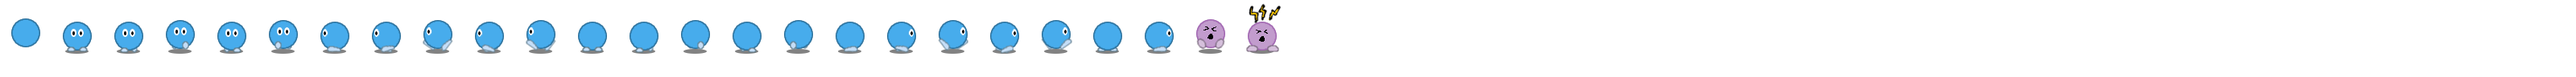
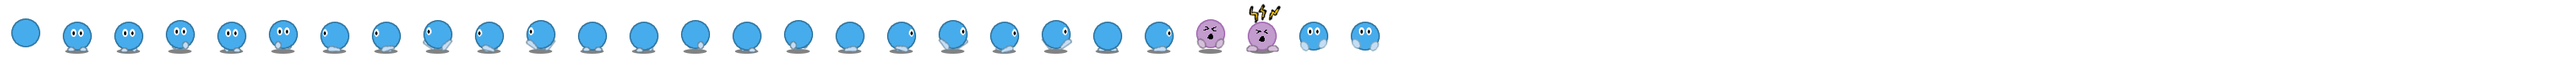
player fall animation
Former-commit-id: f1647d6c1efc2728b446d4d8494c1e8414e2f7ea

Changed region(s): [[0.5, 0.2812, 0.5625, 0.6562]]

diff --git a/src/states/Game.js b/src/states/Game.js
@@ -250,6 +250,7 @@ export default class extends Phaser.State {
     sprite.animations.add("walkRight", [17, 18, 19, 20], 4, true);
     sprite.animations.add("standRight", [22]);
     sprite.animations.add("tantrum", [23, 24], 2, true);
+    sprite.animations.add("fall", [25, 26], 2, true);
   }
 
   movePlayer () {
@@ -554,6 +555,7 @@ export default class extends Phaser.State {
         this.map[tileY][tileX] === null) {
       this.player.falling = true;
       this.fallSound.play(null, null, 0.5);
+      this.player.animObj.animations.play("fall");
       this.calmMusic.fadeTo(2000, 0);
       this.annoyingHum.fadeTo(2000, 0);
       this.chatter.fadeTo(2000, 0);

diff --git a/src/states/Room.js b/src/states/Room.js
@@ -91,12 +91,14 @@ export default class extends Phaser.State {
     sprite.animations.add("walkRight", [17, 18, 19, 20], 4, true);
     sprite.animations.add("standRight", [22]);
     sprite.animations.add("tantrum", [23, 24], 2, true);
+    sprite.animations.add("fall", [25, 26], 2, true);
   }
 
   startPlayerFall() {
     const p = this.player;
     p.falling = true;
     p.y = -960;
+    p.animObj.animations.play("fall");
   }
 
   movePlayer () {
